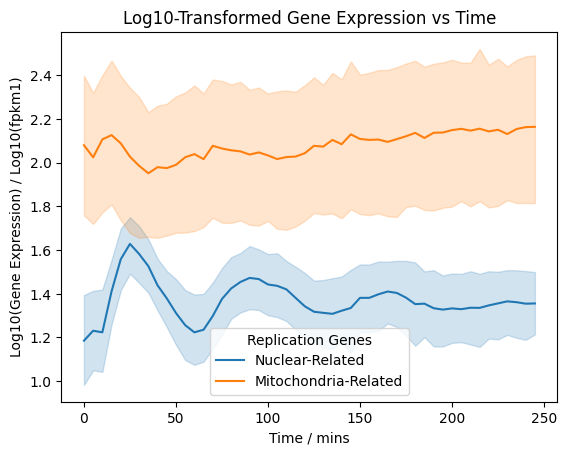
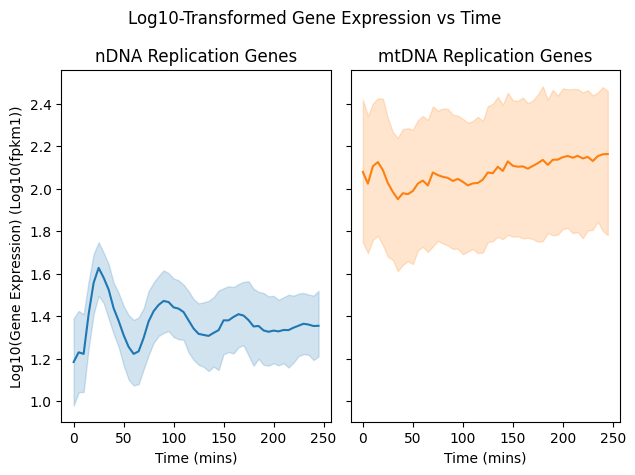
change some graph parameters

diff --git a/EDA Script.py b/EDA Script.py
@@ -28,7 +28,7 @@ def get_gene_complex(gene_df, gene_lst, complex_name):
 topoiso_lst = ['TOP1', 'TOP2', 'TOP3']
 topiso = get_gene_complex(gene_df, topoiso_lst, 'Topoisomerase')
 
-dna_heli_lst = ['HCS1']
+dna_heli_lst = ['HCS1', 'DNA2']
 helicase = get_gene_complex(gene_df, dna_heli_lst, 'DNA Helicase')
 
 ligase_lst = ['CDC9']
@@ -53,35 +53,37 @@ nuclear_df = pd.concat([topiso, helicase, ligase, pol_ep, pol_al, pol_de, telo])
 
 
 # Call function for mitochondrial replication related genes
-mt_ribo_lst = ['VAR1']
-mt_ribo = get_gene_complex(gene_df, mt_ribo_lst, 'Mitoribosomes')
+# mt_ribo_lst = ['VAR1']
+# mt_ribo = get_gene_complex(gene_df, mt_ribo_lst, 'Mitoribosomes')
 
 pol_ga_lst = ['MIP1']
 pol_ga = get_gene_complex(gene_df, pol_ga_lst, 'Pol Gamma')
 
-atp_syn_lst = [
-    "ATP1", "ATP3", "ATP7", "ATP16", "ATP5", "ATP17", "ATP12", 
-    "ATP2", "ATP14", "ATP10", "ATP11", "ATP4", "ATP15", "ATP20", 
-    "ATP18", "ATP8", "ATP6", "ATP19"
-]
-atp_syn = get_gene_complex(gene_df, atp_syn_lst, 'ATP Synthase')
+mt_hel_lst = ['PIF1']
+mt_hel = get_gene_complex(gene_df, mt_hel_lst, 'Mitochondrial Helicase')
 
-cco_lst = [
-    "COX15", "COX6", "COX5B", "COX9", "COX20", "COX4", "COX13",
-    "COX18", "COX16", "COX17", "COX12", "COX8", "COX14", "COX7",
-    "COX5A", "COX11", "COX10", "COX19", "COX1", "COX2", "COX3"
-]
-cco = get_gene_complex(gene_df, cco_lst, 'Cytochrome C Oxidase')
+# atp_syn_lst = [
+#     "ATP1", "ATP3", "ATP7", "ATP16", "ATP5", "ATP17", "ATP12", 
+#     "ATP2", "ATP14", "ATP10", "ATP11", "ATP4", "ATP15", "ATP20", 
+#     "ATP18", "ATP8", "ATP6", "ATP19"
+# ]
+# atp_syn = get_gene_complex(gene_df, atp_syn_lst, 'ATP Synthase')
+
+# cco_lst = [
+#     "COX15", "COX6", "COX5B", "COX9", "COX20", "COX4", "COX13",
+#     "COX18", "COX16", "COX17", "COX12", "COX8", "COX14", "COX7",
+#     "COX5A", "COX11", "COX10", "COX19", "COX1", "COX2", "COX3"
+# ]
+# cco = get_gene_complex(gene_df, cco_lst, 'Cytochrome C Oxidase')
 
 # Concatenate mitochondrial replication related gene DataFrames
-mt_df = pd.concat([mt_ribo, pol_ga, atp_syn, cco])
+mt_df = pd.concat([pol_ga, mt_hel])
 
 
 
 # Assign gene values to a new column in each concatenated DataFrame
 mt_df['genes'] =  'Mitochondria-Related'
 nuclear_df['genes'] =  'Nuclear-Related'
-
 
 
 # Concatenate both replication DataFrames
@@ -99,18 +101,53 @@ test_df = pd.merge(
 
 
 # Plot gene expression against time for each replication type
+# plt.figure()
+
+# fig = sns.lineplot(
+#     x='time_point',
+#     y=np.log10(test_df['fpkm1']),
+#     hue='genes',
+#     data=test_df
+# )
+
+# fig.set_title('Log10-Transformed Gene Expression vs Time')
+# fig.set_xlabel('Time / mins')
+# fig.set_ylabel('Log10(Gene Expression) / Log10(fpkm1)')
+# fig.legend(title='Replication Genes')
+
+# plt.show()
+
+
+
 plt.figure()
+
+fig, axes = plt.subplots(1, 2, sharey=True)
+
+nuc_df = test_df[test_df['genes'] == 'Nuclear-Related']
+mta_df = test_df[test_df['genes'] == 'Mitochondria-Related']
 
 fig = sns.lineplot(
     x='time_point',
     y=np.log10(test_df['fpkm1']),
-    hue='genes',
-    data=test_df
+    data=nuc_df,
+    ax=axes[0],
+    legend=False
 )
 
-fig.set_title('Log10-Transformed Gene Expression vs Time')
-fig.set_xlabel('Time / mins')
-fig.set_ylabel('Log10(Gene Expression) / Log10(fpkm1)')
-fig.legend(title='Replication Genes')
+fig = sns.lineplot(
+    x='time_point',
+    y=np.log10(test_df['fpkm1']),
+    data=mta_df,
+    ax=axes[1],
+    legend=False
+)
 
+plt.suptitle('Log10-Transformed Gene Expression vs Time')
+axes[0].set_xlabel('Time (mins)')
+axes[1].set_xlabel('Time (mins)')
+axes[0].set_ylabel('Log10(Gene Expression) (Log10(fpkm1))')
+axes[0].set_title('nDNA Replication Genes')
+axes[1].set_title('mtDNA Replication & Mitochondrial \n Component Genes')
+
+plt.tight_layout()
 plt.show()
